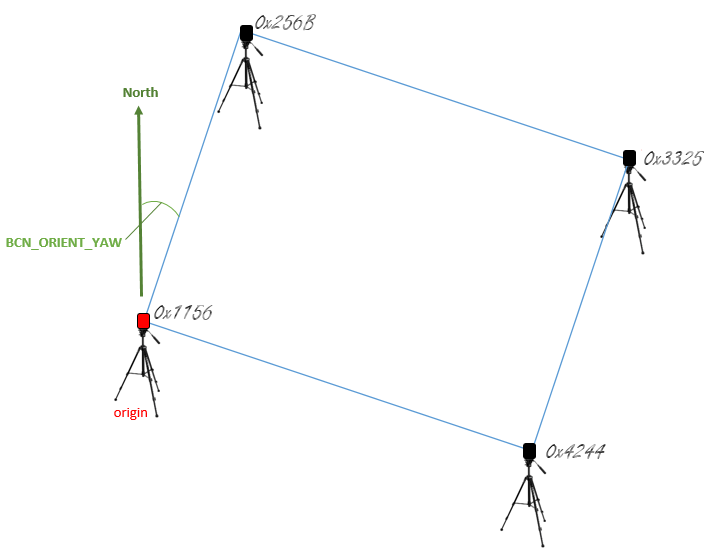
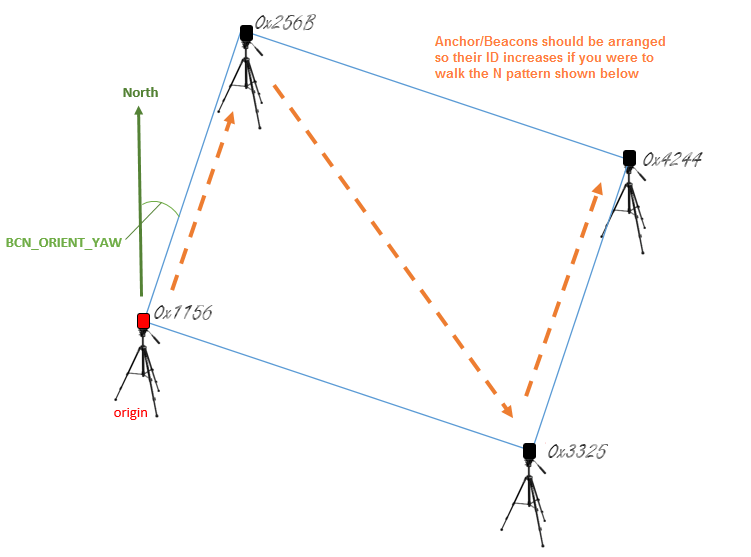
Common: fix pozyx anchor instructions

diff --git a/common/source/docs/common-pozyx.rst b/common/source/docs/common-pozyx.rst
@@ -24,7 +24,7 @@ Required Hardware
 Placing the anchors
 ===================
 
-The anchors should be placed in a rectangular shape.  The anchor with the lowest ID (IDs are printed in hexidecimal on each device) will act as the "origin" and should be placed at the lower-left corner of the rectangle.  Each of the remaining three anchors should be placed in a corner so that the anchor IDs increase as you travel clockwise around the rectangle.  The configuration is slightly simpler if the line from the origin anchor to the 2nd anchor is due North but it is not required as the :ref:`BCN_ORIENT_YAW <BCN_ORIENT_YAW>` parameter can be used to account this difference.
+The anchors should be placed in a rectangular shape.  The anchor with the lowest ID (IDs are printed in hexidecimal on each device) will act as the "origin" and should be placed at the lower-left corner of the rectangle.  Each of the remaining three anchors should be placed in a corner so that the anchor IDs increase as you travel an "N" pattern within the rectangle.  The configuration is slightly simpler if the line from the origin anchor to the 2nd anchor is due North but it is not required as the :ref:`BCN_ORIENT_YAW <BCN_ORIENT_YAW>` parameter can be used to account this difference.
 
 .. image:: ../../../images/pozyx-anchor-layout.png
     :target: ../_images/pozyx-anchor-layout.png
